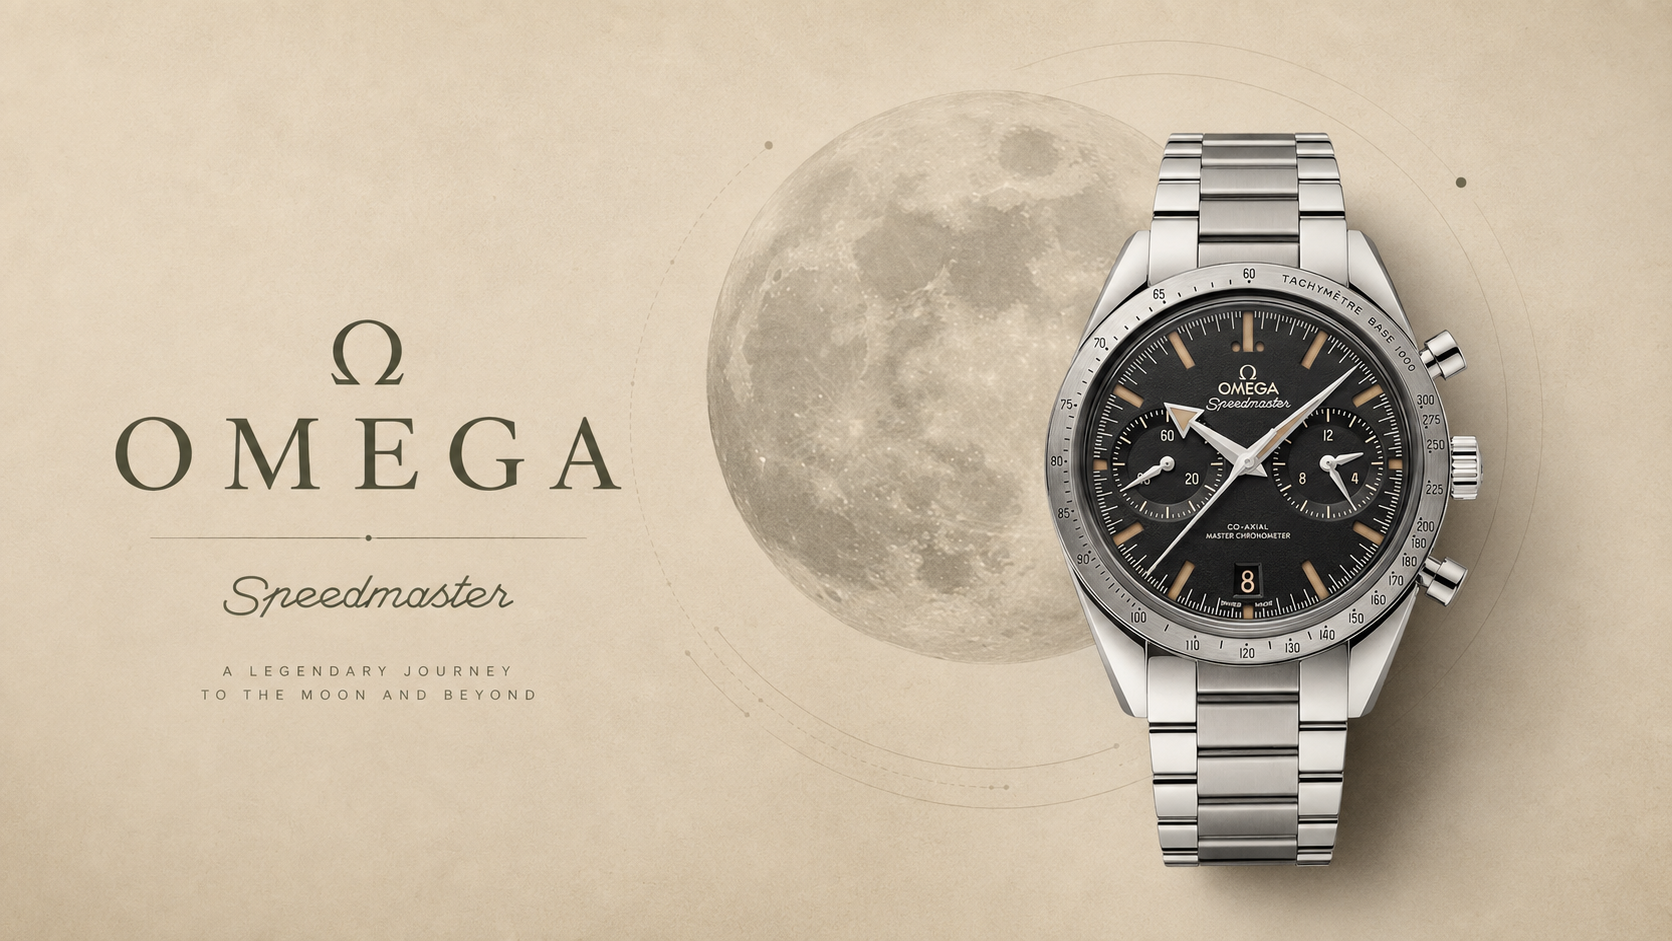
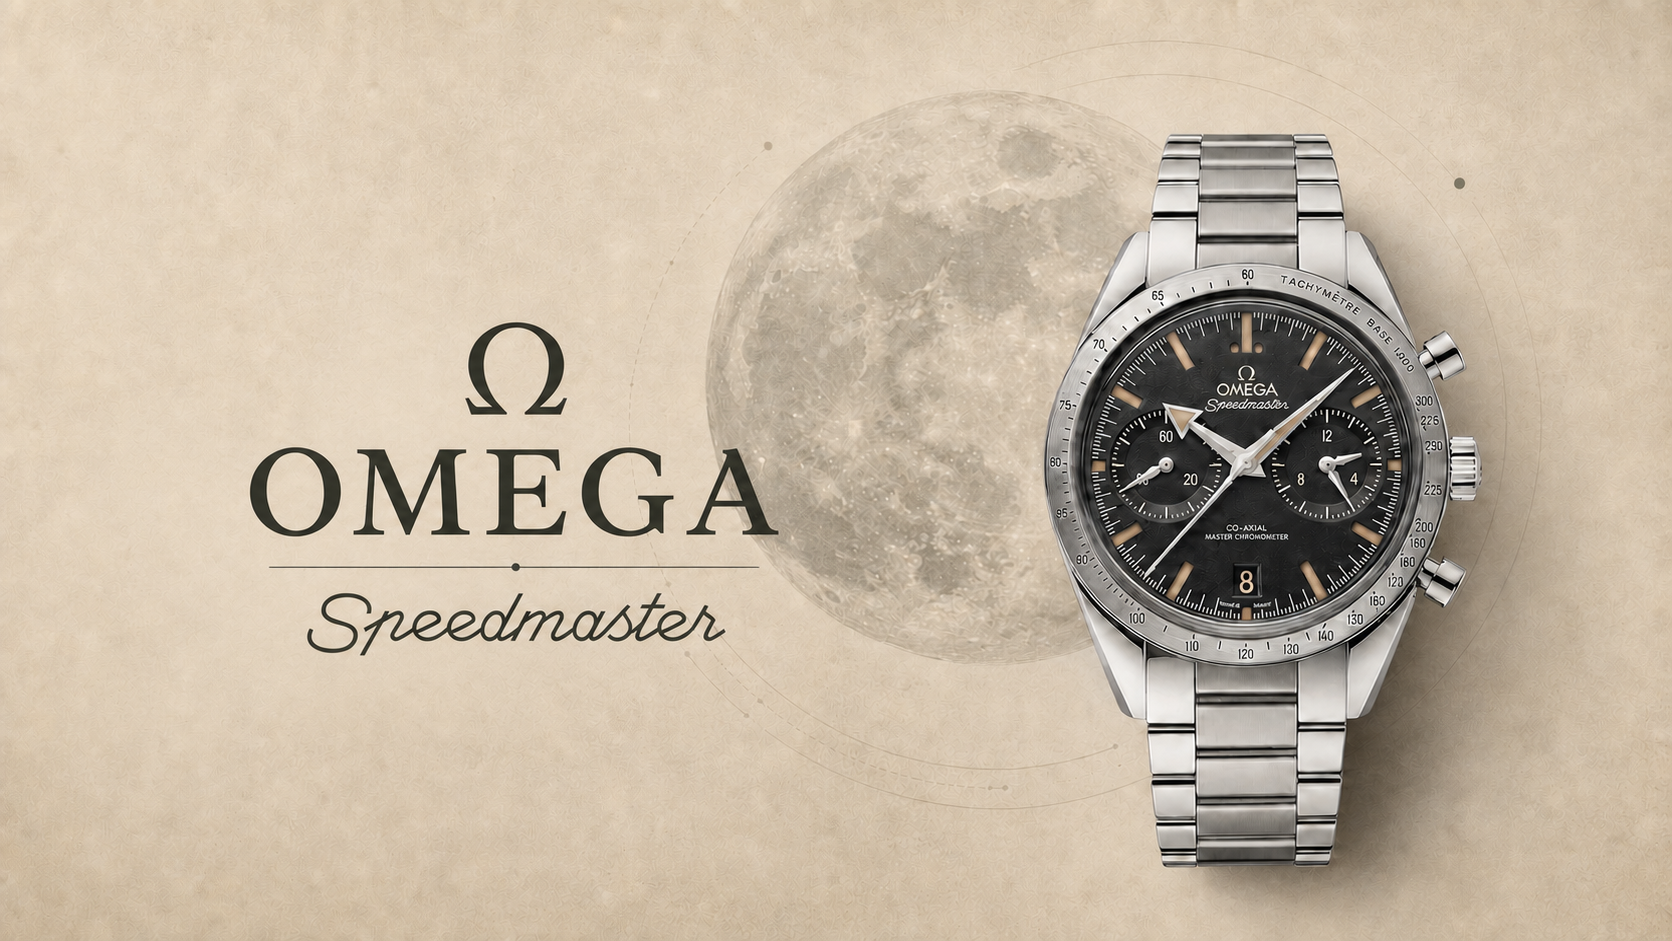
Speedmaster képek javítása és éles próbája

diff --git a/src/content/posts/en/omega-speedmaster-true-story.md b/src/content/posts/en/omega-speedmaster-true-story.md
@@ -1,7 +1,7 @@
 ---
 title: 'Never made for space: the true story of the Omega Speedmaster'
 description: "The most famous space watch was never made for space: in 1957 it was a racing chronograph. NASA did not commission it either, but chose it through brutal testing, and the first watch on the Moon was not even Armstrong's."
-date: 2026-08-05
+date: 2026-08-04
 column: 'origins'
 lang: 'en'
 translationKey: 'speedmaster'
@@ -22,8 +22,8 @@ sources:
 
 The world's most famous space watch was never made for space. In 1957, when Omega introduced the Speedmaster, it was a racing chronograph, meant for motor-racing drivers. NASA did not order it; it simply bought one off the shelf and chose it through brutal testing. And while we are on the subject of legends: the first watch on the Moon was not even Neil Armstrong's. Let's start at the beginning.
 
-![An early Omega Speedmaster with a black dial, photographed on a stand](../_images/speedmaster-ck2915.jpg)
-*The first Speedmaster, the CK2915 (1957), with broad arrow hands. Photo: Fratello Watches (fratellowatches.com)*
+![An early Omega Speedmaster with a black dial and black leather strap, isolated from the background](../_images/speedmaster-ck2915.png)
+*The first Speedmaster, the CK2915 (1957), with broad arrow hands. Source photo: Fratello Watches (fratellowatches.com); background extraction and image completion: Lume, with AI assistance.*
 
 ## A racing watch from 1957
 
@@ -54,8 +54,8 @@ They restored the trajectory with a manual, 14-second engine burn, and they time
 
 This award later came back on the watches themselves. Omega made several "Silver Snoopy Award" special editions: in 2003 a run of 5,441 pieces (the number refers to the time Apollo 13 spent in space), in 2015 a white-dial version of 1,970 pieces with the words "What could you do in 14 seconds?", and in 2020, for the fiftieth anniversary, one whose sapphire caseback shows an animated Snoopy orbiting the Moon every time you start the chronograph.
 
-![The Omega Speedmaster Silver Snoopy Award with a white dial and a blue bezel](../_images/speedmaster-snoopy.jpg)
-*The 2020 "Silver Snoopy Award", with its animated caseback. Photo: Chrono24 (chrono24.com)*
+![The Omega Speedmaster Silver Snoopy Award with a white dial and a blue bezel, isolated from the background](../_images/speedmaster-snoopy.png)
+*The 2020 "Silver Snoopy Award", with its animated caseback. Source photo: Chrono24 (chrono24.com); background extraction and image completion: Lume, with AI assistance.*
 
 ## The watch that has barely changed
 

diff --git a/src/content/posts/hu/omega-speedmaster-igaz-tortenete.md b/src/content/posts/hu/omega-speedmaster-igaz-tortenete.md
@@ -1,7 +1,7 @@
 ---
 title: 'Nem az űrbe tervezték: az Omega Speedmaster igaz története'
 description: 'A leghíresebb űróra sosem az űrbe készült: 1957-ben versenykronográf volt. A NASA sem rendelte, hanem kíméletlen teszttel választotta ki, és az első óra a Holdon nem is Armstrongé volt.'
-date: 2026-08-05
+date: 2026-08-04
 column: 'origins'
 lang: 'hu'
 translationKey: 'speedmaster'
@@ -22,8 +22,8 @@ sources:
 
 A világ leghíresebb űrórája sosem készült az űrbe. 1957-ben, amikor az Omega bemutatta a Speedmastert, versenykronográf volt, autóversenyzőknek szánva. A NASA nem rendelte meg, hanem egyszerűen megvette a boltban, és kíméletlen teszttel választotta ki. És ha már a legendáknál tartunk: az első óra a Holdon nem is Neil Armstrongé volt. Kezdjük az elejéről.
 
-![Korai Omega Speedmaster fekete számlappal, tárlós felvételen](../_images/speedmaster-ck2915.jpg)
-*Az első Speedmaster, a CK2915 (1957), broad arrow mutatókkal. Fotó: Fratello Watches (fratellowatches.com)*
+![Korai Omega Speedmaster fekete számlappal és fekete bőrszíjjal, háttér nélkül](../_images/speedmaster-ck2915.png)
+*Az első Speedmaster, a CK2915 (1957), broad arrow mutatókkal. Forrásfotó: Fratello Watches (fratellowatches.com); háttérleválasztás és képkiegészítés: Lume, AI-segítséggel.*
 
 ## Egy versenyóra 1957-ből
 
@@ -54,8 +54,8 @@ Egy manuális, 14 másodperces hajtóműégetéssel állították helyre a pály
 
 Ez a díj később az órákban is visszaköszönt. Az Omega több „Silver Snoopy Award" különkiadást is készített: 2003-ban egy 5441 darabos szériát (a szám az Apollo 13 űrben töltött idejére utal), 2015-ben egy fehér számlapos, 1970 darabos változatot „mit tennél 14 másodperc alatt?" felirattal, majd 2020-ban az ötvenedik évfordulóra egy olyat, amelynek a zafírhátlapján egy animált Snoopy kerüli meg a Holdat, valahányszor elindítod a kronográfot.
 
-![Az Omega Speedmaster Silver Snoopy Award fehér számlappal és kék lünettával](../_images/speedmaster-snoopy.jpg)
-*A 2020-as „Silver Snoopy Award", animált hátlappal. Fotó: Chrono24 (chrono24.com)*
+![Az Omega Speedmaster Silver Snoopy Award fehér számlappal és kék lünettával, háttér nélkül](../_images/speedmaster-snoopy.png)
+*A 2020-as „Silver Snoopy Award", animált hátlappal. Forrásfotó: Chrono24 (chrono24.com); háttérleválasztás és képkiegészítés: Lume, AI-segítséggel.*
 
 ## Az óra, ami alig változott
 
